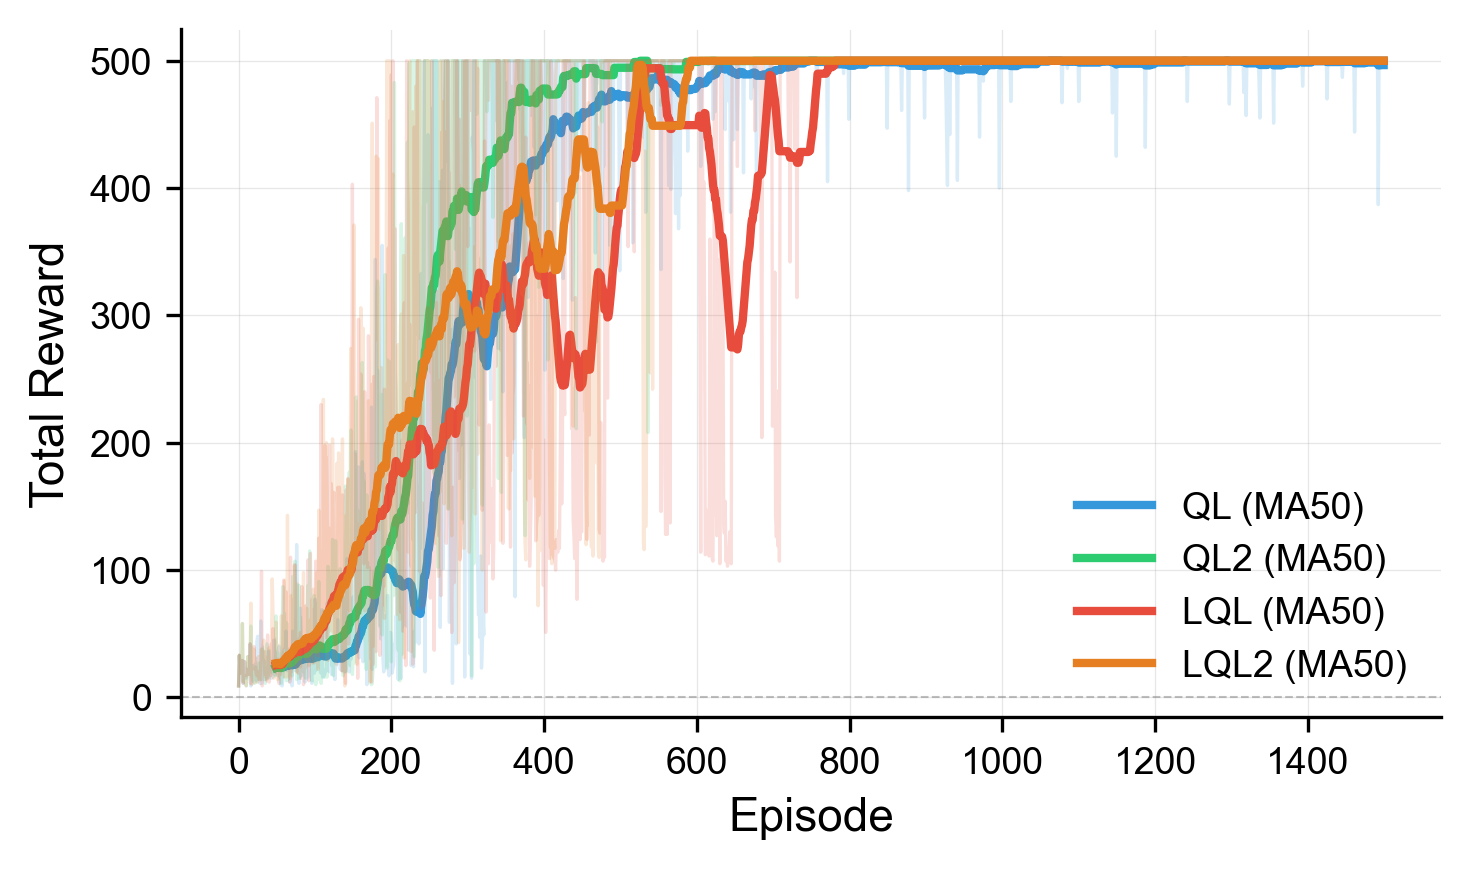
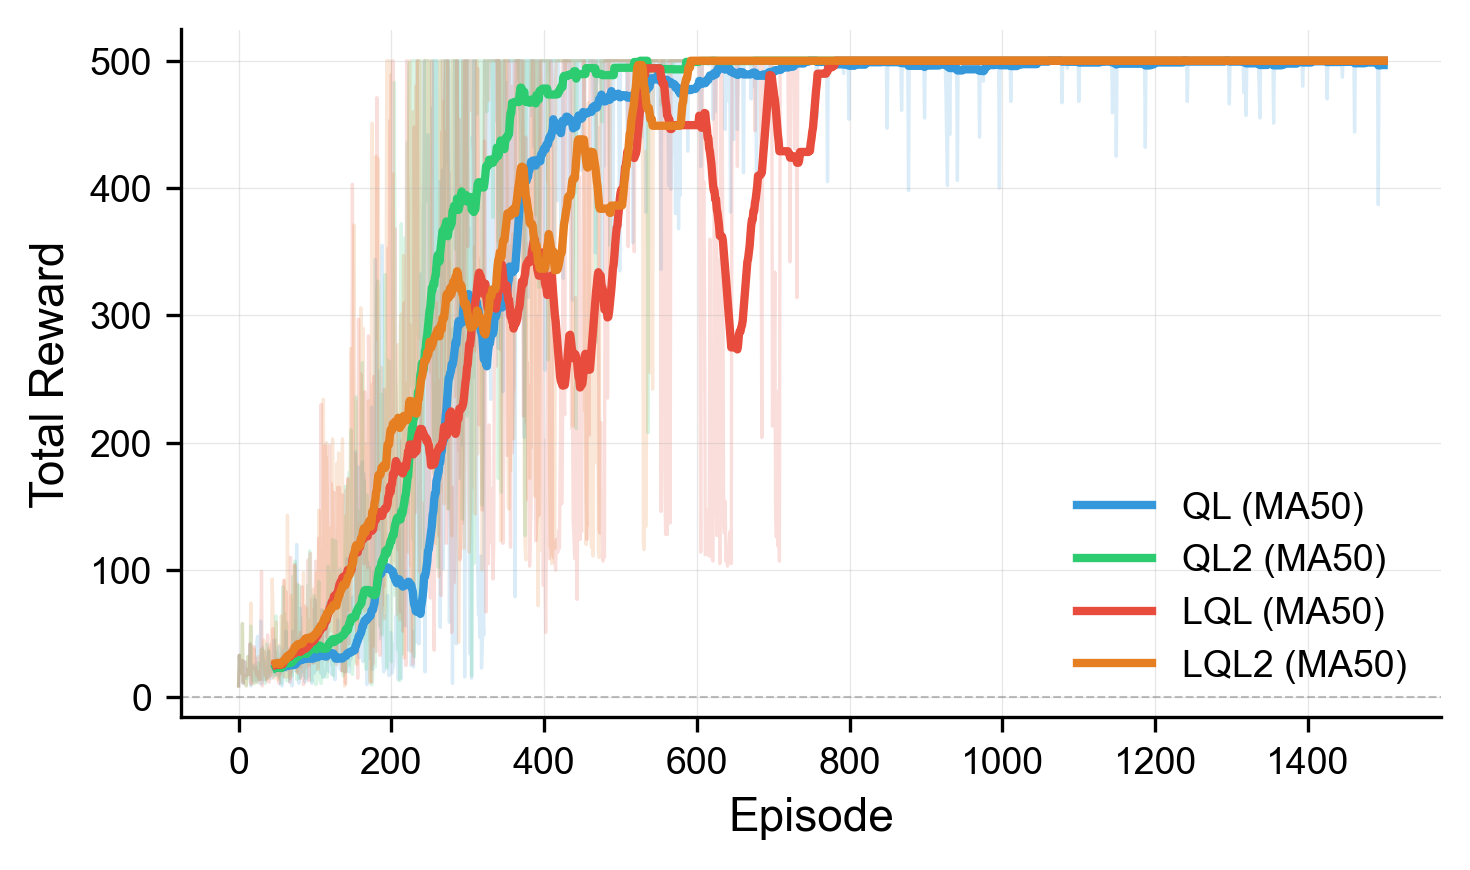
feat: enhance CartPole reward comparison visualization with smoothed curves

diff --git a/visualize_cartpole_reward_comparison.py b/visualize_cartpole_reward_comparison.py
@@ -62,27 +62,35 @@ def main() -> None:
     }
 
     fig, ax = plt.subplots(figsize=(5, 3))
+    series: dict[str, tuple[np.ndarray, np.ndarray, range]] = {}
 
     for name, path in SOURCES.items():
         rewards = load_rewards(path)
         rewards_smooth = smooth(rewards, window=SMOOTH_WINDOW)
         x_smooth = range(len(rewards) - len(rewards_smooth), len(rewards))
+        series[name] = (rewards, rewards_smooth, x_smooth)
 
-        # Raw curve (light)
+    # Draw all raw curves first so they stay below the smoothed curves.
+    for name in SOURCES:
+        rewards, _, _ = series[name]
         ax.plot(
             rewards,
             color=colors[name],
             alpha=0.18,
             linewidth=0.8,
+            zorder=1,
         )
 
-        # Smoothed curve (main)
+    # Draw all smoothed curves last so they always appear on top.
+    for name in SOURCES:
+        _, rewards_smooth, x_smooth = series[name]
         ax.plot(
             x_smooth,
             rewards_smooth,
             color=colors[name],
             linewidth=2,
             label=f"{name} (MA{SMOOTH_WINDOW})",
+            zorder=3,
         )
 
     ax.set_xlabel("Episode", fontweight="normal")
